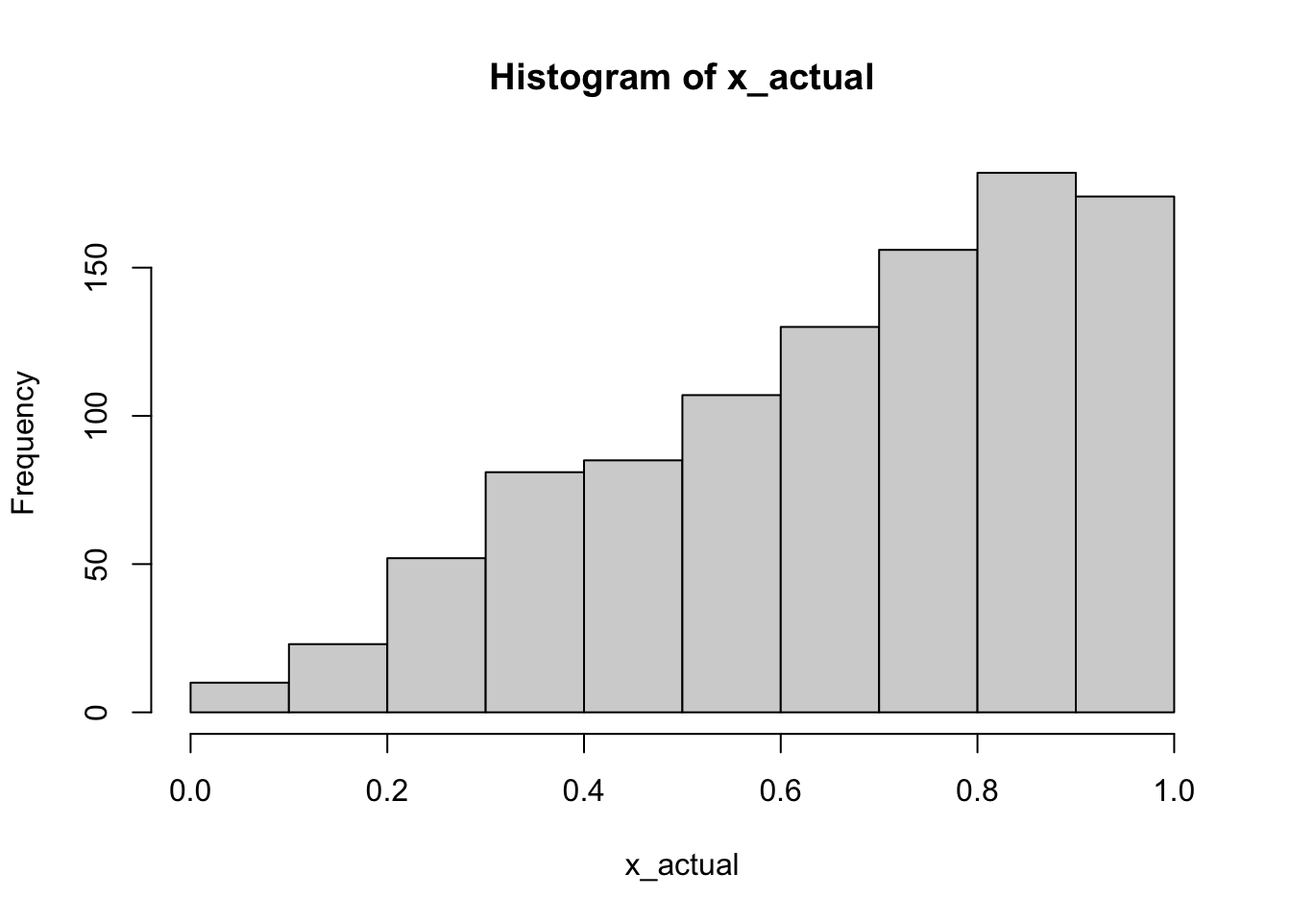
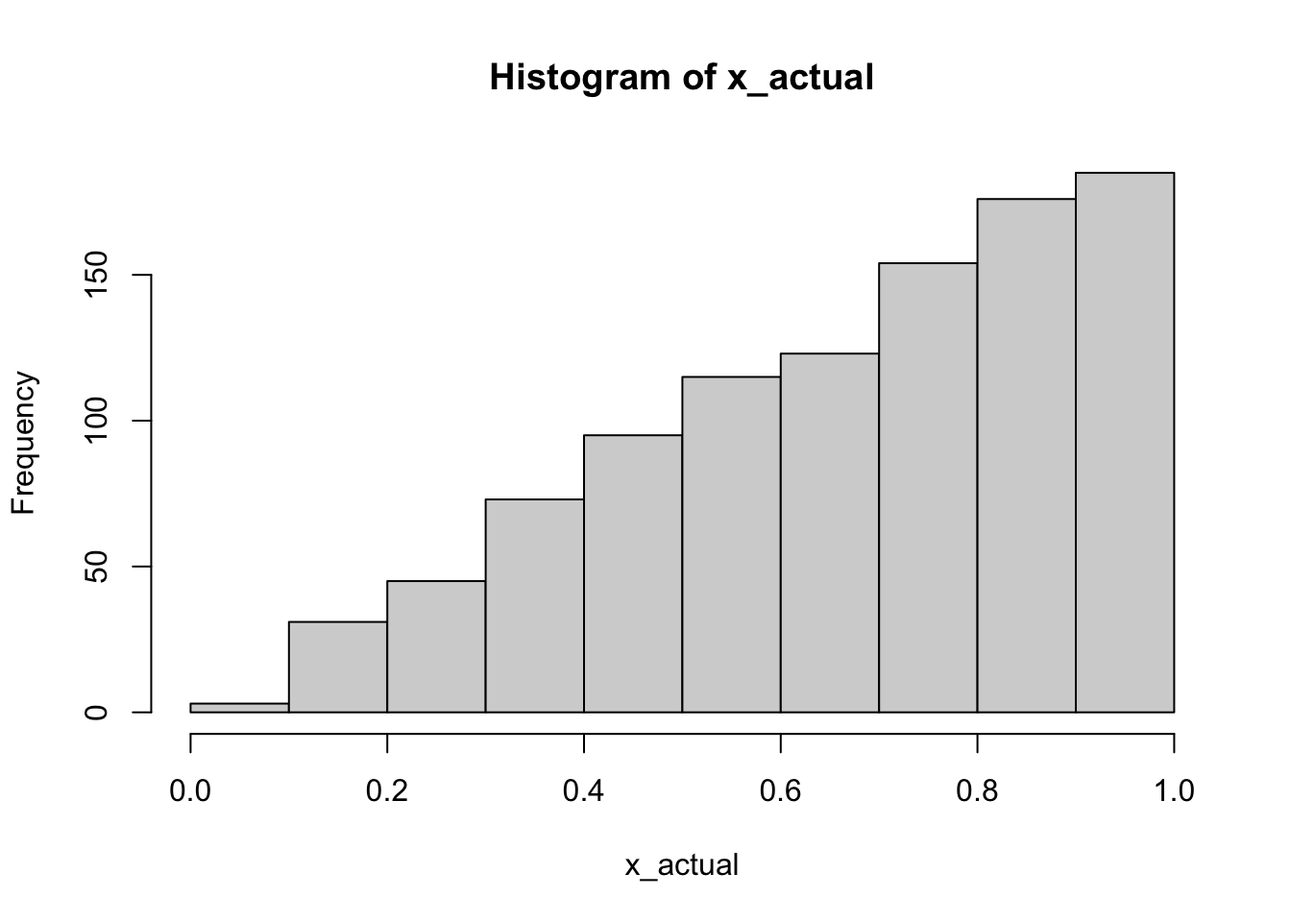
Notes from today's class

diff --git a/docs/class-notes.html b/docs/class-notes.html
@@ -256,6 +256,15 @@ code span.wa { color: #60a0b0; font-weight: bold; font-style: italic; } /* Warni
   <li><a href="#summary-11" id="toc-summary-11" class="nav-link" data-scroll-target="#summary-11">Summary</a></li>
   <li><a href="#notes-11" id="toc-notes-11" class="nav-link" data-scroll-target="#notes-11">Notes</a></li>
   </ul></li>
+  <li><a href="#section-15" id="toc-section-15" class="nav-link" data-scroll-target="#section-15">3/7/2023</a>
+  <ul class="collapse">
+  <li><a href="#summary-12" id="toc-summary-12" class="nav-link" data-scroll-target="#summary-12">Summary</a></li>
+  <li><a href="#notes-12" id="toc-notes-12" class="nav-link" data-scroll-target="#notes-12">Notes</a>
+  <ul class="collapse">
+  <li><a href="#antithetic-variable-method" id="toc-antithetic-variable-method" class="nav-link" data-scroll-target="#antithetic-variable-method">Antithetic Variable Method</a></li>
+  <li><a href="#control-variate-method" id="toc-control-variate-method" class="nav-link" data-scroll-target="#control-variate-method">Control Variate Method</a></li>
+  </ul></li>
+  </ul></li>
   </ul>
 </nav>
     </div>
@@ -480,9 +489,15 @@ code span.wa { color: #60a0b0; font-weight: bold; font-style: italic; } /* Warni
 </section>
 <section id="section-2" class="level1">
 <h1>1/17/23</h1>
+<ul>
+<li>Absent</li>
+</ul>
 </section>
 <section id="section-3" class="level1">
 <h1>1/19/23</h1>
+<ul>
+<li>Absent</li>
+</ul>
 </section>
 <section id="section-4" class="level1">
 <h1>1/24/23</h1>
@@ -622,11 +637,11 @@ NULL</code></pre>
 <span id="cb21-8"><a href="#cb21-8" aria-hidden="true" tabindex="-1"></a></span>
 <span id="cb21-9"><a href="#cb21-9" aria-hidden="true" tabindex="-1"></a><span class="fu">mean</span>(x) <span class="co"># should be close to 1 / lambda</span></span></code><button title="Copy to Clipboard" class="code-copy-button"><i class="bi"></i></button></pre></div>
 <div class="cell-output cell-output-stdout">
-<pre><code>[1] 0.09991727</code></pre>
+<pre><code>[1] 0.09999598</code></pre>
 </div>
 <div class="sourceCode cell-code" id="cb23"><pre class="sourceCode r code-with-copy"><code class="sourceCode r"><span id="cb23-1"><a href="#cb23-1" aria-hidden="true" tabindex="-1"></a><span class="fu">var</span>(x) <span class="co"># should be close to 1 / lambda^2</span></span></code><button title="Copy to Clipboard" class="code-copy-button"><i class="bi"></i></button></pre></div>
 <div class="cell-output cell-output-stdout">
-<pre><code>[1] 0.01000344</code></pre>
+<pre><code>[1] 0.01008169</code></pre>
 </div>
 </div>
 <p>Transformation of a discrete CDF via a quantile:</p>
@@ -654,7 +669,7 @@ F_Y(y_{i - 1}) &lt; u \leq F_Y(y_i), u \sim Uniform(0, 1)
 <span id="cb25-18"><a href="#cb25-18" aria-hidden="true" tabindex="-1"></a><span class="fu">cumsum</span>(p)</span></code><button title="Copy to Clipboard" class="code-copy-button"><i class="bi"></i></button></pre></div>
 <div class="cell-output cell-output-stdout">
 <pre><code>     0      1      2      3      4 
-0.1019 0.3590 0.4229 0.8551 1.0000 </code></pre>
+0.0979 0.3522 0.4158 0.8436 1.0000 </code></pre>
 </div>
 </div>
 </section>
@@ -786,7 +801,7 @@ P(\text{A point generated from step 1 is rejected}) = \frac{\text{Area between }
 <div class="cell-output cell-output-stdout">
 <pre><code>out
     1     2     3     4     5 
-0.177 0.239 0.324 0.154 0.106 </code></pre>
+0.147 0.236 0.343 0.170 0.104 </code></pre>
 </div>
 </div>
 </section>
@@ -818,7 +833,7 @@ P(\text{A point generated from step 1 is rejected}) = \frac{\text{Area between }
 <span id="cb32-13"><a href="#cb32-13" aria-hidden="true" tabindex="-1"></a></span>
 <span id="cb32-14"><a href="#cb32-14" aria-hidden="true" tabindex="-1"></a><span class="fu">gen_poisson</span>(<span class="dv">10</span>, <span class="dv">2</span>)</span></code><button title="Copy to Clipboard" class="code-copy-button"><i class="bi"></i></button></pre></div>
 <div class="cell-output cell-output-stdout">
-<pre><code>[1] 24</code></pre>
+<pre><code>[1] 21</code></pre>
 </div>
 <div class="sourceCode cell-code" id="cb34"><pre class="sourceCode r code-with-copy"><code class="sourceCode r"><span id="cb34-1"><a href="#cb34-1" aria-hidden="true" tabindex="-1"></a>x <span class="ot">&lt;-</span> <span class="fu">replicate</span>(<span class="dv">1000</span>, <span class="fu">gen_poisson</span>(<span class="dv">8</span>, <span class="dv">3</span>))</span>
 <span id="cb34-2"><a href="#cb34-2" aria-hidden="true" tabindex="-1"></a></span>
@@ -861,8 +876,8 @@ f_X(x) = \begin{cases}
 <span id="cb35-5"><a href="#cb35-5" aria-hidden="true" tabindex="-1"></a></span>
 <span id="cb35-6"><a href="#cb35-6" aria-hidden="true" tabindex="-1"></a><span class="fu">rexp</span>(n, lambda) <span class="co"># x_i ~ f(x)             -- random draws</span></span></code><button title="Copy to Clipboard" class="code-copy-button"><i class="bi"></i></button></pre></div>
 <div class="cell-output cell-output-stdout">
-<pre><code> [1] 0.3058848 0.1666804 0.4352093 0.3092599 0.3189125 0.3137935 0.6702828
- [8] 0.1771845 0.3232664 0.6556549</code></pre>
+<pre><code> [1] 0.04821275 0.86568726 0.27535527 0.17550007 1.05623876 0.47881280
+ [7] 0.23792943 0.02182196 0.97558406 0.06310353</code></pre>
 </div>
 <div class="sourceCode cell-code" id="cb37"><pre class="sourceCode r code-with-copy"><code class="sourceCode r"><span id="cb37-1"><a href="#cb37-1" aria-hidden="true" tabindex="-1"></a><span class="fu">pexp</span>(x, lambda) <span class="co"># P(X &lt;= x)              -- CDF, cumulative probability</span></span></code><button title="Copy to Clipboard" class="code-copy-button"><i class="bi"></i></button></pre></div>
 <div class="cell-output cell-output-stdout">
@@ -883,7 +898,7 @@ f_X(x) = \begin{cases}
 <span id="cb43-3"><a href="#cb43-3" aria-hidden="true" tabindex="-1"></a></span>
 <span id="cb43-4"><a href="#cb43-4" aria-hidden="true" tabindex="-1"></a><span class="fu">rnorm</span>(<span class="dv">1</span>, mu, sd)</span></code><button title="Copy to Clipboard" class="code-copy-button"><i class="bi"></i></button></pre></div>
 <div class="cell-output cell-output-stdout">
-<pre><code>[1] 6.898712</code></pre>
+<pre><code>[1] -0.8994936</code></pre>
 </div>
 <div class="sourceCode cell-code" id="cb45"><pre class="sourceCode r code-with-copy"><code class="sourceCode r"><span id="cb45-1"><a href="#cb45-1" aria-hidden="true" tabindex="-1"></a><span class="fu">pnorm</span>(<span class="dv">5</span>, mu, sd)</span></code><button title="Copy to Clipboard" class="code-copy-button"><i class="bi"></i></button></pre></div>
 <div class="cell-output cell-output-stdout">
@@ -919,7 +934,7 @@ F_u(u^*) \equiv P(U \leq u^*) = \int_0^{u^*} f_u(u)\ du = \int_0^{u^*} 1\ du = u
 <div class="sourceCode cell-code" id="cb51"><pre class="sourceCode r code-with-copy"><code class="sourceCode r"><span id="cb51-1"><a href="#cb51-1" aria-hidden="true" tabindex="-1"></a>u <span class="ot">&lt;-</span> <span class="fu">runif</span>(<span class="dv">1000000</span>, <span class="dv">0</span>, <span class="dv">1</span>)</span>
 <span id="cb51-2"><a href="#cb51-2" aria-hidden="true" tabindex="-1"></a><span class="fu">mean</span>(<span class="fu">exp</span>(<span class="sc">-</span>u))</span></code><button title="Copy to Clipboard" class="code-copy-button"><i class="bi"></i></button></pre></div>
 <div class="cell-output cell-output-stdout">
-<pre><code>[1] 0.6318026</code></pre>
+<pre><code>[1] 0.6322463</code></pre>
 </div>
 <div class="sourceCode cell-code" id="cb53"><pre class="sourceCode r code-with-copy"><code class="sourceCode r"><span id="cb53-1"><a href="#cb53-1" aria-hidden="true" tabindex="-1"></a><span class="dv">1</span> <span class="sc">-</span> <span class="fu">exp</span>(<span class="sc">-</span><span class="dv">1</span>)</span></code><button title="Copy to Clipboard" class="code-copy-button"><i class="bi"></i></button></pre></div>
 <div class="cell-output cell-output-stdout">
@@ -945,11 +960,11 @@ F_u(u^*) \equiv P(U \leq u^*) = \int_0^{u^*} f_u(u)\ du = \int_0^{u^*} 1\ du = u
 <span id="cb55-7"><a href="#cb55-7" aria-hidden="true" tabindex="-1"></a><span class="co"># g(x) = x</span></span>
 <span id="cb55-8"><a href="#cb55-8" aria-hidden="true" tabindex="-1"></a><span class="fu">mean</span>(u1)</span></code><button title="Copy to Clipboard" class="code-copy-button"><i class="bi"></i></button></pre></div>
 <div class="cell-output cell-output-stdout">
-<pre><code>[1] 0.5014369</code></pre>
+<pre><code>[1] 0.5079939</code></pre>
 </div>
 <div class="sourceCode cell-code" id="cb57"><pre class="sourceCode r code-with-copy"><code class="sourceCode r"><span id="cb57-1"><a href="#cb57-1" aria-hidden="true" tabindex="-1"></a><span class="fu">mean</span>(u2)</span></code><button title="Copy to Clipboard" class="code-copy-button"><i class="bi"></i></button></pre></div>
 <div class="cell-output cell-output-stdout">
-<pre><code>[1] 0.4967978</code></pre>
+<pre><code>[1] 0.4957338</code></pre>
 </div>
 </div>
 <p><span class="math display">\[
@@ -963,7 +978,7 @@ F_u(u^*) \equiv P(U \leq u^*) = \int_0^{u^*} f_u(u)\ du = \int_0^{u^*} 1\ du = u
 <div class="sourceCode cell-code" id="cb61"><pre class="sourceCode r code-with-copy"><code class="sourceCode r"><span id="cb61-1"><a href="#cb61-1" aria-hidden="true" tabindex="-1"></a>u <span class="ot">&lt;-</span> <span class="fu">runif</span>(<span class="dv">1000</span>, <span class="dv">2</span>, <span class="dv">5</span>)</span>
 <span id="cb61-2"><a href="#cb61-2" aria-hidden="true" tabindex="-1"></a>(<span class="dv">5</span> <span class="sc">-</span> <span class="dv">2</span>) <span class="sc">*</span> <span class="fu">mean</span>(<span class="fu">exp</span>(<span class="sc">-</span>u))</span></code><button title="Copy to Clipboard" class="code-copy-button"><i class="bi"></i></button></pre></div>
 <div class="cell-output cell-output-stdout">
-<pre><code>[1] 0.1265129</code></pre>
+<pre><code>[1] 0.129262</code></pre>
 </div>
 </div>
 </section>
@@ -997,7 +1012,7 @@ F_u(u^*) \equiv P(U \leq u^*) = \int_0^{u^*} f_u(u)\ du = \int_0^{u^*} 1\ du = u
 <span id="cb63-9"><a href="#cb63-9" aria-hidden="true" tabindex="-1"></a></span>
 <span id="cb63-10"><a href="#cb63-10" aria-hidden="true" tabindex="-1"></a><span class="fu">map_dbl</span>(<span class="fu">c</span>(<span class="dv">10</span>, <span class="dv">100</span>, <span class="dv">1000</span>, <span class="dv">10000</span>, <span class="dv">100000</span>), <span class="sc">~</span><span class="fu">mc_integrate</span>(f, <span class="dv">2</span>, <span class="dv">4</span>, .))</span></code><button title="Copy to Clipboard" class="code-copy-button"><i class="bi"></i></button></pre></div>
 <div class="cell-output cell-output-stdout">
-<pre><code>[1] 0.1393342 0.1128028 0.1184837 0.1169410 0.1169212</code></pre>
+<pre><code>[1] 0.08838609 0.11961412 0.11612834 0.11636998 0.11701864</code></pre>
 </div>
 <div class="sourceCode cell-code" id="cb65"><pre class="sourceCode r code-with-copy"><code class="sourceCode r"><span id="cb65-1"><a href="#cb65-1" aria-hidden="true" tabindex="-1"></a><span class="co"># true value</span></span>
 <span id="cb65-2"><a href="#cb65-2" aria-hidden="true" tabindex="-1"></a><span class="fu">exp</span>(<span class="sc">-</span><span class="dv">2</span>) <span class="sc">-</span> <span class="fu">exp</span>(<span class="sc">-</span><span class="dv">4</span>)</span></code><button title="Copy to Clipboard" class="code-copy-button"><i class="bi"></i></button></pre></div>
@@ -1007,7 +1022,7 @@ F_u(u^*) \equiv P(U \leq u^*) = \int_0^{u^*} f_u(u)\ du = \int_0^{u^*} 1\ du = u
 <div class="sourceCode cell-code" id="cb67"><pre class="sourceCode r code-with-copy"><code class="sourceCode r"><span id="cb67-1"><a href="#cb67-1" aria-hidden="true" tabindex="-1"></a>h <span class="ot">&lt;-</span> <span class="cf">function</span>(x) <span class="dv">10</span> <span class="sc">*</span> <span class="fu">exp</span>(<span class="sc">-</span><span class="dv">10</span> <span class="sc">*</span> x)</span>
 <span id="cb67-2"><a href="#cb67-2" aria-hidden="true" tabindex="-1"></a><span class="fu">map_dbl</span>(<span class="fu">c</span>(<span class="dv">10</span>, <span class="dv">1000</span>, <span class="dv">1000000</span>), <span class="sc">~</span><span class="fu">mc_integrate</span>(h, <span class="dv">0</span>, <span class="dv">2</span>, .))</span></code><button title="Copy to Clipboard" class="code-copy-button"><i class="bi"></i></button></pre></div>
 <div class="cell-output cell-output-stdout">
-<pre><code>[1] 0.4284299 0.9338067 1.0003385</code></pre>
+<pre><code>[1] 2.8051326 0.9667228 1.0014344</code></pre>
 </div>
 <div class="sourceCode cell-code" id="cb69"><pre class="sourceCode r code-with-copy"><code class="sourceCode r"><span id="cb69-1"><a href="#cb69-1" aria-hidden="true" tabindex="-1"></a><span class="co"># true value</span></span>
 <span id="cb69-2"><a href="#cb69-2" aria-hidden="true" tabindex="-1"></a><span class="fu">integrate</span>(h, <span class="dv">0</span>, <span class="dv">2</span>)</span></code><button title="Copy to Clipboard" class="code-copy-button"><i class="bi"></i></button></pre></div>
@@ -1041,7 +1056,7 @@ f_X(x) = \begin{cases}
 <div class="sourceCode cell-code" id="cb71"><pre class="sourceCode r code-with-copy"><code class="sourceCode r"><span id="cb71-1"><a href="#cb71-1" aria-hidden="true" tabindex="-1"></a>f <span class="ot">&lt;-</span> <span class="cf">function</span>(x) <span class="dv">10</span> <span class="sc">*</span> <span class="fu">exp</span>(<span class="sc">-</span><span class="dv">10</span> <span class="sc">*</span> x)</span>
 <span id="cb71-2"><a href="#cb71-2" aria-hidden="true" tabindex="-1"></a><span class="fu">mc_integrate</span>(f, <span class="dv">0</span>, <span class="dv">5</span>, <span class="dv">100000</span>)</span></code><button title="Copy to Clipboard" class="code-copy-button"><i class="bi"></i></button></pre></div>
 <div class="cell-output cell-output-stdout">
-<pre><code>[1] 0.9976091</code></pre>
+<pre><code>[1] 0.9933802</code></pre>
 </div>
 </div>
 <div class="cell">
@@ -1055,7 +1070,7 @@ f_X(x) = \begin{cases}
 <span id="cb73-8"><a href="#cb73-8" aria-hidden="true" tabindex="-1"></a></span>
 <span id="cb73-9"><a href="#cb73-9" aria-hidden="true" tabindex="-1"></a>u <span class="sc">-</span> l</span></code><button title="Copy to Clipboard" class="code-copy-button"><i class="bi"></i></button></pre></div>
 <div class="cell-output cell-output-stdout">
-<pre><code>[1] 0.8195724</code></pre>
+<pre><code>[1] 0.307096</code></pre>
 </div>
 <div class="sourceCode cell-code" id="cb75"><pre class="sourceCode r code-with-copy"><code class="sourceCode r"><span id="cb75-1"><a href="#cb75-1" aria-hidden="true" tabindex="-1"></a><span class="fu">pexp</span>(<span class="dv">6</span>, <span class="dv">1</span><span class="sc">/</span><span class="dv">20</span>) <span class="sc">-</span> <span class="fu">pexp</span>(<span class="dv">2</span>, <span class="dv">1</span><span class="sc">/</span><span class="dv">20</span>)</span></code><button title="Copy to Clipboard" class="code-copy-button"><i class="bi"></i></button></pre></div>
 <div class="cell-output cell-output-stdout">
@@ -1088,7 +1103,7 @@ f_X(x) = \begin{cases}
 <span id="cb77-20"><a href="#cb77-20" aria-hidden="true" tabindex="-1"></a></span>
 <span id="cb77-21"><a href="#cb77-21" aria-hidden="true" tabindex="-1"></a><span class="fu">z_cdf</span>(<span class="dv">2</span>, <span class="dv">100000</span>)</span></code><button title="Copy to Clipboard" class="code-copy-button"><i class="bi"></i></button></pre></div>
 <div class="cell-output cell-output-stdout">
-<pre><code>[1] 0.9764611</code></pre>
+<pre><code>[1] 0.977499</code></pre>
 </div>
 <div class="sourceCode cell-code" id="cb79"><pre class="sourceCode r code-with-copy"><code class="sourceCode r"><span id="cb79-1"><a href="#cb79-1" aria-hidden="true" tabindex="-1"></a><span class="fu">pnorm</span>(<span class="dv">2</span>)</span></code><button title="Copy to Clipboard" class="code-copy-button"><i class="bi"></i></button></pre></div>
 <div class="cell-output cell-output-stdout">
@@ -1102,6 +1117,9 @@ f_X(x) = \begin{cases}
 <h1>3/2/23</h1>
 <section id="summary-11" class="level2">
 <h2 class="anchored" data-anchor-id="summary-11">Summary</h2>
+<ul>
+<li>“Hit or Miss” approach to Monte Carlo Integration</li>
+</ul>
 </section>
 <section id="notes-11" class="level2">
 <h2 class="anchored" data-anchor-id="notes-11">Notes</h2>
@@ -1128,7 +1146,7 @@ f_X(x) = \begin{cases}
 <span id="cb81-9"><a href="#cb81-9" aria-hidden="true" tabindex="-1"></a><span class="co"># step 3.</span></span>
 <span id="cb81-10"><a href="#cb81-10" aria-hidden="true" tabindex="-1"></a><span class="fu">mean</span>(i)</span></code><button title="Copy to Clipboard" class="code-copy-button"><i class="bi"></i></button></pre></div>
 <div class="cell-output cell-output-stdout">
-<pre><code>[1] 0.9772</code></pre>
+<pre><code>[1] 0.9718</code></pre>
 </div>
 <div class="sourceCode cell-code" id="cb83"><pre class="sourceCode r code-with-copy"><code class="sourceCode r"><span id="cb83-1"><a href="#cb83-1" aria-hidden="true" tabindex="-1"></a>norm_cdf <span class="ot">&lt;-</span> <span class="cf">function</span>(x, <span class="at">n =</span> <span class="dv">10000</span>, <span class="at">mu =</span> <span class="dv">0</span>, <span class="at">sigma =</span> <span class="dv">1</span>) {</span>
 <span id="cb83-2"><a href="#cb83-2" aria-hidden="true" tabindex="-1"></a>  X <span class="ot">&lt;-</span> <span class="fu">rnorm</span>(n, mu, sigma)</span>
@@ -1158,7 +1176,7 @@ f_X(x) = \begin{cases}
 <span id="cb87-6"><a href="#cb87-6" aria-hidden="true" tabindex="-1"></a></span>
 <span id="cb87-7"><a href="#cb87-7" aria-hidden="true" tabindex="-1"></a><span class="fu">beta_cdf</span>(<span class="fl">0.7</span>, <span class="at">a =</span> <span class="dv">2</span>, <span class="at">b =</span> <span class="dv">3</span>)</span></code><button title="Copy to Clipboard" class="code-copy-button"><i class="bi"></i></button></pre></div>
 <div class="cell-output cell-output-stdout">
-<pre><code>[1] 0.9152</code></pre>
+<pre><code>[1] 0.9208</code></pre>
 </div>
 <div class="sourceCode cell-code" id="cb89"><pre class="sourceCode r code-with-copy"><code class="sourceCode r"><span id="cb89-1"><a href="#cb89-1" aria-hidden="true" tabindex="-1"></a><span class="fu">pbeta</span>(<span class="fl">0.7</span>, <span class="dv">2</span>, <span class="dv">3</span>)</span></code><button title="Copy to Clipboard" class="code-copy-button"><i class="bi"></i></button></pre></div>
 <div class="cell-output cell-output-stdout">
@@ -1221,7 +1239,7 @@ f_X(x) = \begin{cases}
 <span id="cb91-43"><a href="#cb91-43" aria-hidden="true" tabindex="-1"></a><span class="fu">comparison</span>()</span></code><button title="Copy to Clipboard" class="code-copy-button"><i class="bi"></i></button></pre></div>
 <div class="cell-output cell-output-stdout">
 <pre><code>      theta1       theta2 
-5.619595e-05 2.717818e-05 </code></pre>
+5.163935e-05 2.602778e-05 </code></pre>
 </div>
 </div>
 <ul>
@@ -1232,8 +1250,117 @@ f_X(x) = \begin{cases}
 <li>applied journals?</li>
 </ul></li>
 </ul>
+</section>
+</section>
+<section id="section-15" class="level1">
+<h1>3/7/2023</h1>
+<section id="summary-12" class="level2">
+<h2 class="anchored" data-anchor-id="summary-12">Summary</h2>
+<p>Variance reduction methods, the Antithetic Variable Method</p>
+</section>
+<section id="notes-12" class="level2">
+<h2 class="anchored" data-anchor-id="notes-12">Notes</h2>
+<p>Suppose our goal is to estimate a parameter <span class="math inline">\(\theta\)</span>. Could be population mean, median, variance, etc.</p>
+<p><em>Point Estimation:</em> use sample data to calculate a single estimate <span class="math inline">\(\hat{\theta}\)</span> of the population value.</p>
+<p>If you have competing estimators, we would choose the one that satisfies the following two criteria:</p>
+<ol type="1">
+<li><span class="math inline">\(E(\hat{\theta}) = \theta\)</span>; unbiasedness</li>
+<li>Minimum variance</li>
+</ol>
+<p>This is called a Uniformly Minimum Variance Estimate among Unbiased Estimates: UMVUE.</p>
+<p>We can apply Monte-Carlo integration to competing estimators to determine which among them have the lowest variance. We demonstrated this in the last class with the Normal CDF.</p>
+<section id="antithetic-variable-method" class="level3">
+<h3 class="anchored" data-anchor-id="antithetic-variable-method">Antithetic Variable Method</h3>
+<p>Suppose we have two random variables <span class="math inline">\(X\)</span> and <span class="math inline">\(Y\)</span>. Then, <span class="math inline">\(Var(aX \pm bY) = a^2 \cdot Var(X) + b^2 \cdot Var(Y) \pm 2 \cdot a \cdot b \cdot Cov(X, Y)\)</span> where <span class="math inline">\(a\)</span> and <span class="math inline">\(b\)</span> are numbers, and <span class="math inline">\(Cov(X, Y) = E(XY) - E(X) \cdot E(Y)\)</span>.</p>
+<p>Ex. <span class="math inline">\(Var(2X + 0.5Y)\)</span></p>
+<p>We have shown that <span class="math display">\[
+\frac{1}{m}\sum_{i=1}^n g(u_i) \leftarrow \theta = \int_a^b g(x)\ dx
+\]</span></p>
+<p>by the law of large numbers.</p>
+<p>Now, let <span class="math inline">\(a = b = \frac{1}{2}\)</span>, and thus <span class="math display">\[
+Var(\frac{X + Y}{2}) = Var(\frac{1}{2}X + \frac{1}{2}Y) = (\frac{1}{2})^2Var(X) + (\frac{1}{2})^2Var(Y) + 2 \cdot \frac{1}{2} \cdot \frac{1}{2} \cdot Cov(X, Y)
+\]</span></p>
+<p>Then, let <span class="math inline">\(u_1, u_2 \sim U(0, 1)\)</span> and consider a function <span class="math inline">\(h(\cdot).\)</span></p>
+<ol type="a">
+<li>if <span class="math inline">\(u_1 \perp u_2\)</span>, then <span class="math inline">\(h(u_1) \perp h(u_2)\)</span> and <span class="math display">\[
+Var\Bigl(\frac{h(u_1) + h(u_2)}{2} \Bigr) = \frac{1}{4}(Var(h(u_1)) + Var(h(u_2)))
+\]</span></li>
+</ol>
+<div class="cell">
+<div class="sourceCode cell-code" id="cb93"><pre class="sourceCode r code-with-copy"><code class="sourceCode r"><span id="cb93-1"><a href="#cb93-1" aria-hidden="true" tabindex="-1"></a>u <span class="ot">&lt;-</span> <span class="fu">runif</span>(<span class="dv">1000</span>)</span>
+<span id="cb93-2"><a href="#cb93-2" aria-hidden="true" tabindex="-1"></a>v <span class="ot">&lt;-</span> <span class="dv">1</span> <span class="sc">-</span> u</span>
+<span id="cb93-3"><a href="#cb93-3" aria-hidden="true" tabindex="-1"></a></span>
+<span id="cb93-4"><a href="#cb93-4" aria-hidden="true" tabindex="-1"></a><span class="co"># Cov(u, v) &lt; 0!</span></span>
+<span id="cb93-5"><a href="#cb93-5" aria-hidden="true" tabindex="-1"></a><span class="fu">cov</span>(u, v)</span></code><button title="Copy to Clipboard" class="code-copy-button"><i class="bi"></i></button></pre></div>
+<div class="cell-output cell-output-stdout">
+<pre><code>[1] -0.0836544</code></pre>
+</div>
+</div>
+<p>Comparison between simple monte-carlo and antithetic variable approach.</p>
+<div class="cell">
+<div class="sourceCode cell-code" id="cb95"><pre class="sourceCode r code-with-copy"><code class="sourceCode r"><span id="cb95-1"><a href="#cb95-1" aria-hidden="true" tabindex="-1"></a>norm_cdf_anti <span class="ot">&lt;-</span> <span class="cf">function</span>(x, n) {</span>
+<span id="cb95-2"><a href="#cb95-2" aria-hidden="true" tabindex="-1"></a>  u <span class="ot">&lt;-</span> <span class="fu">runif</span>(n <span class="sc">/</span> <span class="dv">2</span>)</span>
+<span id="cb95-3"><a href="#cb95-3" aria-hidden="true" tabindex="-1"></a>  v <span class="ot">&lt;-</span> <span class="dv">1</span> <span class="sc">-</span> u</span>
+<span id="cb95-4"><a href="#cb95-4" aria-hidden="true" tabindex="-1"></a>  y <span class="ot">&lt;-</span> <span class="fu">c</span>(u, v)</span>
+<span id="cb95-5"><a href="#cb95-5" aria-hidden="true" tabindex="-1"></a>  </span>
+<span id="cb95-6"><a href="#cb95-6" aria-hidden="true" tabindex="-1"></a>  pos_cdf <span class="ot">&lt;-</span> (<span class="dv">1</span> <span class="sc">/</span> <span class="fu">sqrt</span>(<span class="dv">2</span> <span class="sc">*</span> pi)) <span class="sc">*</span> <span class="fu">abs</span>(x) <span class="sc">*</span> <span class="fu">exp</span>(<span class="sc">-</span>x<span class="sc">^</span><span class="dv">2</span> <span class="sc">*</span> y<span class="sc">^</span><span class="dv">2</span> <span class="sc">/</span> <span class="dv">2</span>) <span class="sc">+</span> <span class="fl">0.5</span></span>
+<span id="cb95-7"><a href="#cb95-7" aria-hidden="true" tabindex="-1"></a>  </span>
+<span id="cb95-8"><a href="#cb95-8" aria-hidden="true" tabindex="-1"></a>  <span class="cf">if</span> (x <span class="sc">&gt;=</span> <span class="dv">0</span>) {</span>
+<span id="cb95-9"><a href="#cb95-9" aria-hidden="true" tabindex="-1"></a>    cdf <span class="ot">&lt;-</span> pos_cdf</span>
+<span id="cb95-10"><a href="#cb95-10" aria-hidden="true" tabindex="-1"></a>  } <span class="cf">else</span> {</span>
+<span id="cb95-11"><a href="#cb95-11" aria-hidden="true" tabindex="-1"></a>    cdf <span class="ot">&lt;-</span> <span class="dv">1</span> <span class="sc">-</span> pos_cdf</span>
+<span id="cb95-12"><a href="#cb95-12" aria-hidden="true" tabindex="-1"></a>  }</span>
+<span id="cb95-13"><a href="#cb95-13" aria-hidden="true" tabindex="-1"></a>  </span>
+<span id="cb95-14"><a href="#cb95-14" aria-hidden="true" tabindex="-1"></a>  <span class="fu">return</span>(<span class="fu">mean</span>(cdf))</span>
+<span id="cb95-15"><a href="#cb95-15" aria-hidden="true" tabindex="-1"></a>}</span>
+<span id="cb95-16"><a href="#cb95-16" aria-hidden="true" tabindex="-1"></a></span>
+<span id="cb95-17"><a href="#cb95-17" aria-hidden="true" tabindex="-1"></a>norm_cdf <span class="ot">&lt;-</span> <span class="cf">function</span>(x, n) {</span>
+<span id="cb95-18"><a href="#cb95-18" aria-hidden="true" tabindex="-1"></a>  u <span class="ot">&lt;-</span> <span class="fu">runif</span>(n)</span>
+<span id="cb95-19"><a href="#cb95-19" aria-hidden="true" tabindex="-1"></a>  </span>
+<span id="cb95-20"><a href="#cb95-20" aria-hidden="true" tabindex="-1"></a>  pos_cdf <span class="ot">&lt;-</span> (<span class="dv">1</span> <span class="sc">/</span> <span class="fu">sqrt</span>(<span class="dv">2</span> <span class="sc">*</span> pi)) <span class="sc">*</span> <span class="fu">abs</span>(x) <span class="sc">*</span> <span class="fu">exp</span>(<span class="sc">-</span>x<span class="sc">^</span><span class="dv">2</span> <span class="sc">*</span> u<span class="sc">^</span><span class="dv">2</span> <span class="sc">/</span> <span class="dv">2</span>) <span class="sc">+</span> <span class="fl">0.5</span></span>
+<span id="cb95-21"><a href="#cb95-21" aria-hidden="true" tabindex="-1"></a>  </span>
+<span id="cb95-22"><a href="#cb95-22" aria-hidden="true" tabindex="-1"></a>  <span class="cf">if</span> (x <span class="sc">&gt;=</span> <span class="dv">0</span>) {</span>
+<span id="cb95-23"><a href="#cb95-23" aria-hidden="true" tabindex="-1"></a>    cdf <span class="ot">&lt;-</span> pos_cdf</span>
+<span id="cb95-24"><a href="#cb95-24" aria-hidden="true" tabindex="-1"></a>  } <span class="cf">else</span> {</span>
+<span id="cb95-25"><a href="#cb95-25" aria-hidden="true" tabindex="-1"></a>    cdf <span class="ot">&lt;-</span> <span class="dv">1</span> <span class="sc">-</span> pos_cdf</span>
+<span id="cb95-26"><a href="#cb95-26" aria-hidden="true" tabindex="-1"></a>  }</span>
+<span id="cb95-27"><a href="#cb95-27" aria-hidden="true" tabindex="-1"></a>  </span>
+<span id="cb95-28"><a href="#cb95-28" aria-hidden="true" tabindex="-1"></a>  <span class="fu">return</span>(<span class="fu">mean</span>(cdf))</span>
+<span id="cb95-29"><a href="#cb95-29" aria-hidden="true" tabindex="-1"></a>}</span>
+<span id="cb95-30"><a href="#cb95-30" aria-hidden="true" tabindex="-1"></a></span>
+<span id="cb95-31"><a href="#cb95-31" aria-hidden="true" tabindex="-1"></a>s <span class="ot">&lt;-</span> <span class="fu">numeric</span>(<span class="dv">100</span>)</span>
+<span id="cb95-32"><a href="#cb95-32" aria-hidden="true" tabindex="-1"></a>a <span class="ot">&lt;-</span> <span class="fu">numeric</span>(<span class="dv">100</span>)</span>
+<span id="cb95-33"><a href="#cb95-33" aria-hidden="true" tabindex="-1"></a></span>
+<span id="cb95-34"><a href="#cb95-34" aria-hidden="true" tabindex="-1"></a><span class="cf">for</span> (i <span class="cf">in</span> <span class="dv">1</span><span class="sc">:</span><span class="dv">100</span>) {</span>
+<span id="cb95-35"><a href="#cb95-35" aria-hidden="true" tabindex="-1"></a>  s[i] <span class="ot">&lt;-</span> <span class="fu">norm_cdf</span>(<span class="fl">1.96</span>, <span class="dv">100</span>)</span>
+<span id="cb95-36"><a href="#cb95-36" aria-hidden="true" tabindex="-1"></a>  a[i] <span class="ot">&lt;-</span> <span class="fu">norm_cdf_anti</span>(<span class="fl">1.96</span>, <span class="dv">100</span>)</span>
+<span id="cb95-37"><a href="#cb95-37" aria-hidden="true" tabindex="-1"></a>}</span>
+<span id="cb95-38"><a href="#cb95-38" aria-hidden="true" tabindex="-1"></a></span>
+<span id="cb95-39"><a href="#cb95-39" aria-hidden="true" tabindex="-1"></a><span class="fu">var</span>(s)</span></code><button title="Copy to Clipboard" class="code-copy-button"><i class="bi"></i></button></pre></div>
+<div class="cell-output cell-output-stdout">
+<pre><code>[1] 0.0005662214</code></pre>
+</div>
+<div class="sourceCode cell-code" id="cb97"><pre class="sourceCode r code-with-copy"><code class="sourceCode r"><span id="cb97-1"><a href="#cb97-1" aria-hidden="true" tabindex="-1"></a><span class="fu">var</span>(a)</span></code><button title="Copy to Clipboard" class="code-copy-button"><i class="bi"></i></button></pre></div>
+<div class="cell-output cell-output-stdout">
+<pre><code>[1] 1.778401e-06</code></pre>
+</div>
+</div>
+</section>
+<section id="control-variate-method" class="level3">
+<h3 class="anchored" data-anchor-id="control-variate-method">Control Variate Method</h3>
+<p>Let <span class="math inline">\(\theta = E(g(X))\)</span>. An estimate of <span class="math inline">\(\theta\)</span> by control variate method <span class="math inline">\(\hat{\theta}_c\)</span> can be obtained by</p>
+<ol type="a">
+<li><p>finding a function <span class="math inline">\(l(x)\)</span> of a random variable such that (i) <span class="math inline">\(\mu = E(l(x))\)</span> is known and (ii) <span class="math inline">\(l(x)\)</span> is correlated with <span class="math inline">\(g(x)\)</span> and</p></li>
+<li><p>setting <span class="math inline">\(\hat{\theta}_c = g(x) + c[l(x) - \mu]\)</span>.</p></li>
+</ol>
+<p>Note that the random variable <span class="math inline">\(l(x)\)</span> is called a <em>control variate</em> and does not need to be a pdf. It is just a function of <span class="math inline">\(x\)</span>.</p>
+<p>So, how do we find <span class="math inline">\(c\)</span>?</p>
+<p><span class="math display">\[
+\min_c Var(\hat{\theta}_c) = \min_c Var(1 \cdot g(x) + c \cdot [l(x) - \mu])
+\]</span></p>
 
 
+</section>
 </section>
 </section>
 
